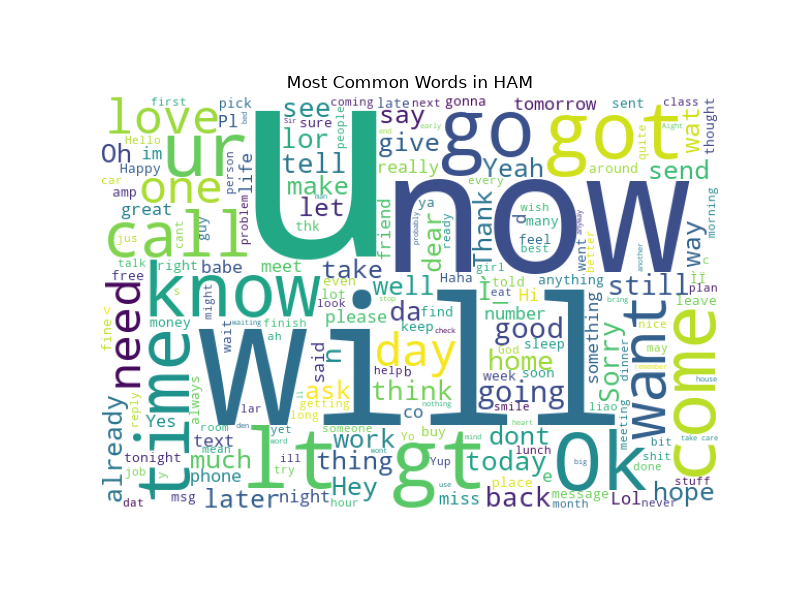
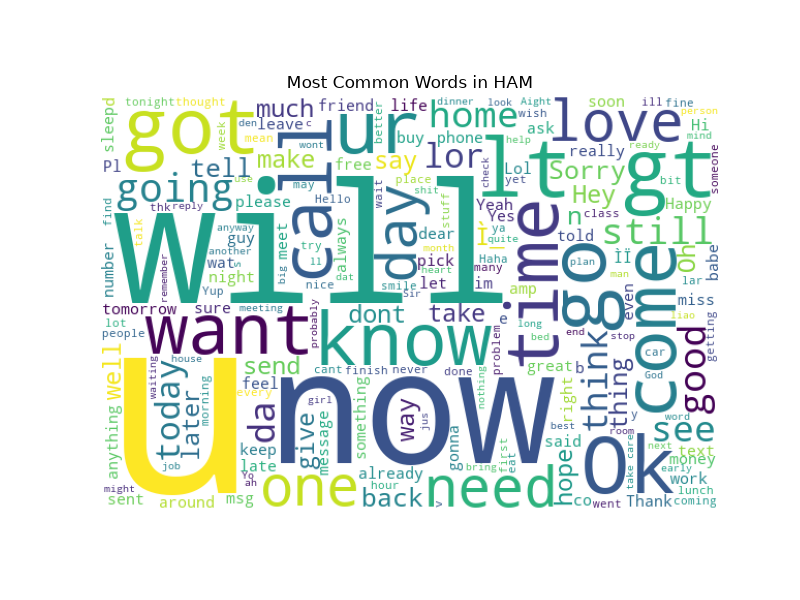
Linked EDA module with main     fraud detection script

diff --git a/eda.py b/eda.py
@@ -1,44 +1,45 @@
-import pandas as pd
-import seaborn as sns
-import matplotlib.pyplot as plt
-from wordcloud import WordCloud
+def run_eda():
+   import pandas as pd
+   import seaborn as sns
+   import matplotlib.pyplot as plt
+   from wordcloud import WordCloud
 
 # Dataset load karo (isi tarah jaisa pehle kiya tha)
-df = pd.read_csv('spam.csv', encoding='latin-1')
-df = df[['v1', 'v2']]
-df.columns = ['label', 'message']
-df = df.drop_duplicates()
+   df = pd.read_csv('spam.csv', encoding='latin-1')
+   df = df[['v1', 'v2']]
+   df.columns = ['label', 'message']
+   df = df.drop_duplicates()
 
 # 1. Spam vs Ham Count
-sns.countplot(x='label', data=df)
-plt.title('Spam vs Ham Count')
-plt.savefig('spam_ham_count.png')
-plt.show()
+   sns.countplot(x='label',data=df)
+   plt.title('Spam vs Ham Count')
+   plt.savefig('spam_ham_count.png')
+   plt.show()
 
 # 2. Message Length
-df['length'] = df['message'].apply(len)
-df[df['label']=='ham']['length'].plot(kind='hist', bins=50, alpha=0.5, label='ham', color='blue')
-df[df['label']=='spam']['length'].plot(kind='hist', bins=50, alpha=0.5, label='spam', color='red')
-plt.legend()
-plt.title('Message Length: Spam vs Ham')
-plt.savefig('message_length.png')
-plt.show()
+   df['length'] = df['message'].apply(len)
+   df[df['label']=='ham']['length'].plot(kind='hist', bins=50, alpha=0.5, label='ham', color='blue')
+   df[df['label']=='spam']['length'].plot(kind='hist', bins=50, alpha=0.5, label='spam', color='red')
+   plt.legend()
+   plt.title('Message Length: Spam vs Ham')
+   plt.savefig('message_length.png')
+   plt.show()
 
 # 3. WordCloud
-spam_words = ' '.join(df[df['label']=='spam']['message'])
-spam_wc = WordCloud(width=600, height=400, background_color='white').generate(spam_words)
-plt.figure(figsize=(8,6))
-plt.imshow(spam_wc)
-plt.axis('off')
-plt.title('Most Common Words in SPAM')
-plt.savefig('spam_wordcloud.png')
-plt.show()
+   spam_words = ' '.join(df[df['label']=='spam']['message'])
+   spam_wc = WordCloud(width=600, height=400, background_color='white').generate(spam_words)
+   plt.figure(figsize=(8,6))
+   plt.imshow(spam_wc)
+   plt.axis('off')
+   plt.title('Most Common Words in SPAM')
+   plt.savefig('spam_wordcloud.png')
+   plt.show()
 
-ham_words = ' '.join(df[df['label']=='ham']['message'])
-ham_wc = WordCloud(width=600, height=400, background_color='white').generate(ham_words)
-plt.figure(figsize=(8,6))
-plt.imshow(ham_wc)
-plt.axis('off')
-plt.title('Most Common Words in HAM')
-plt.savefig('ham_wordcloud.png')
-plt.show()
+   ham_words = ' '.join(df[df['label']=='ham']['message'])
+   ham_wc = WordCloud(width=600, height=400, background_color='white').generate(ham_words)
+   plt.figure(figsize=(8,6))
+   plt.imshow(ham_wc)
+   plt.axis('off')
+   plt.title('Most Common Words in HAM')
+   plt.savefig('ham_wordcloud.png')
+   plt.show()

diff --git a/spamham_project_v3.py b/spamham_project_v3.py
@@ -18,6 +18,7 @@ from pathlib import Path
 import joblib
 import numpy as np
 import pandas as pd
+from eda import run_eda
 from scipy.sparse import csr_matrix, hstack
 from sklearn.base import BaseEstimator,TransformerMixin
 from sklearn.calibration import CalibratedClassifierCV
@@ -438,6 +439,7 @@ def error_analysis(df_test, y_test, model, threshold, n=5):
 
 # --------------------------------------------------------------------------
 def main():
+    run_eda()
     parser = argparse.ArgumentParser(description="SMS fraud detection")
     parser.add_argument("--data", type=Path, default=Path("spam.csv"))
     parser.add_argument("--out", type=Path, default=Path("fraud_model.joblib"))
